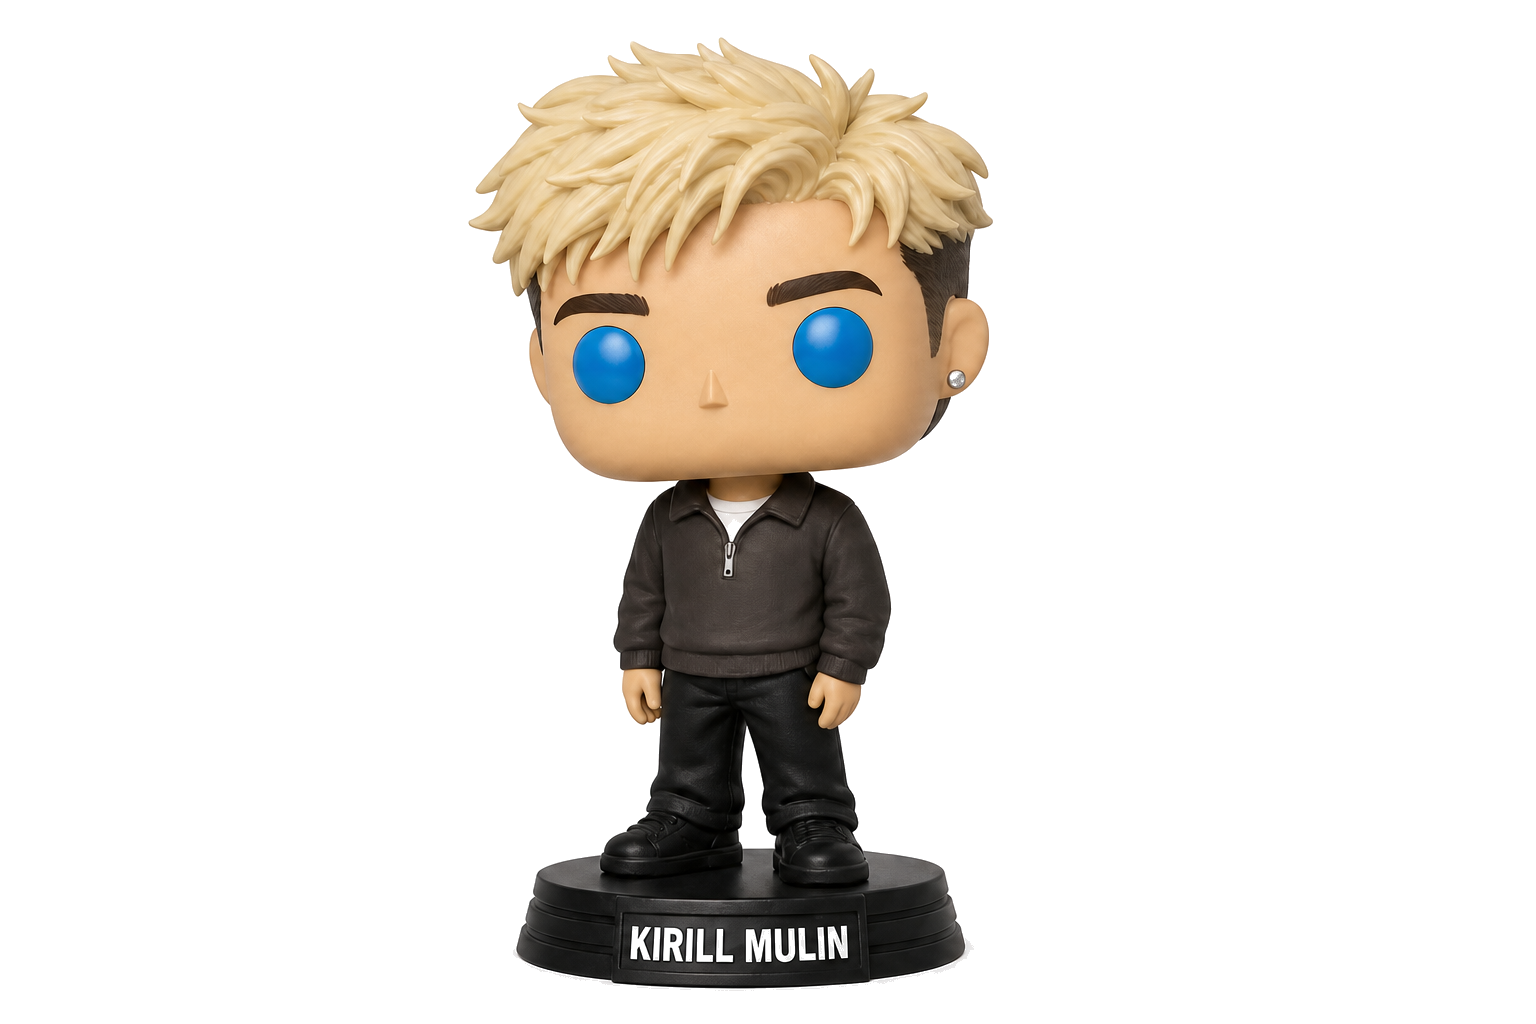
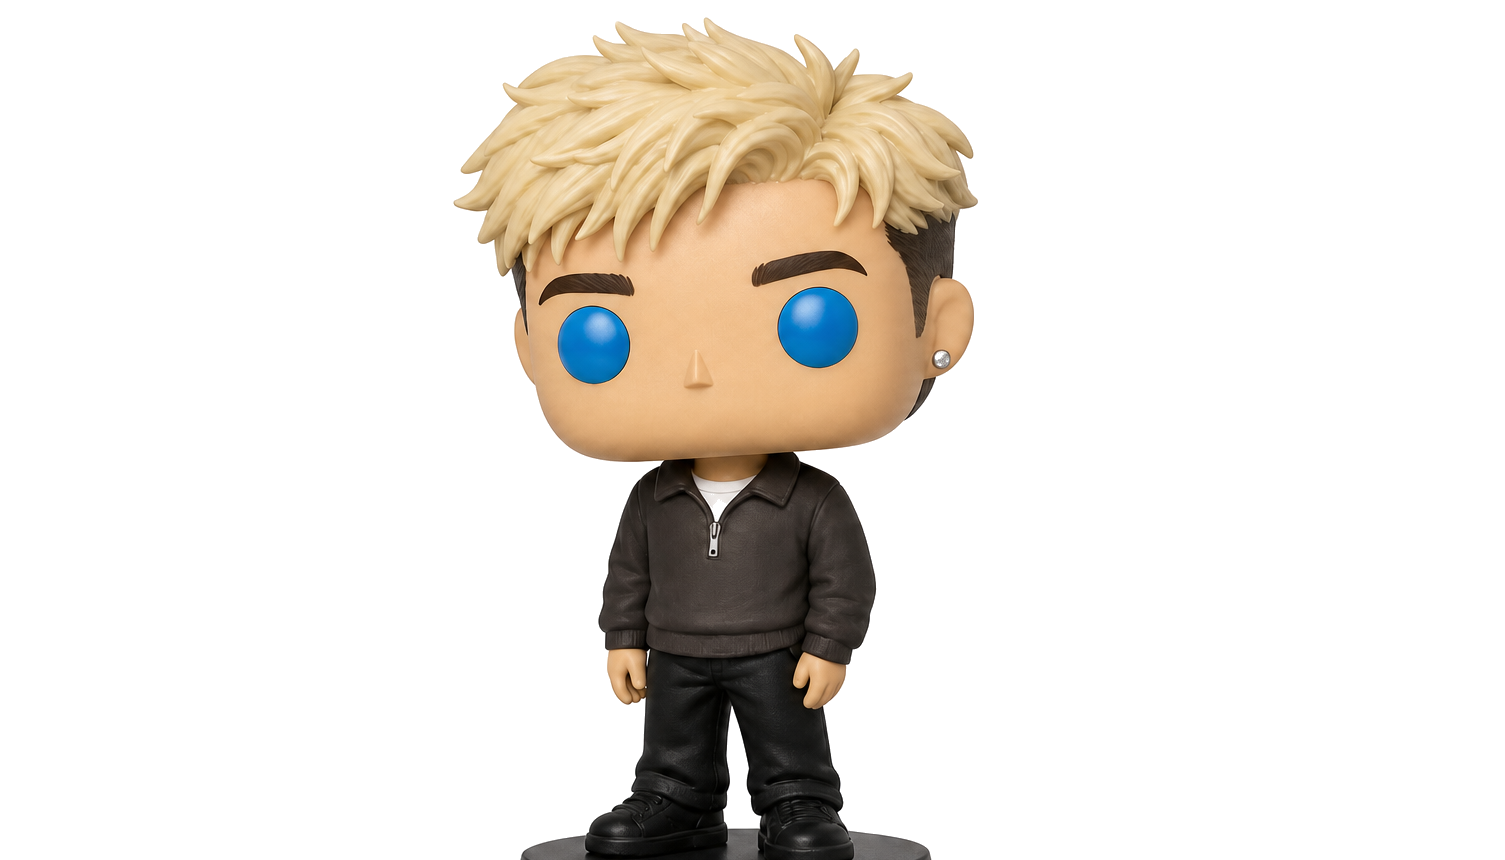
Fix Kirill proportions, cleaner header, scaling protein upgrades

Changed region(s): [[0.2811, 0.0302, 0.6558, 1.0]]

diff --git a/game.js b/game.js
@@ -51,26 +51,34 @@ const PHOTO_LEVELS = [
 let lastPhotoLevel = 0;
 let currentPhotoSrc = '';
 
+function proteinTapBonus(lvl) {
+  return Math.floor((lvl * (lvl + 1)) / 2);
+}
+
+function gymTapBonus(lvl) {
+  return proteinTapBonus(lvl) * 3;
+}
+
 const UPGRADES = [
   {
     id: 'protein',
     name: 'Протеин',
     icon: '🥤',
-    desc: '+1 зинкоин за тап',
+    desc: 'Растёт с уровнем: чем выше ур., тем больше за тап',
     basePrice: 50,
-    priceMult: 1.6,
+    priceMult: 1.68,
     maxLevel: 50,
-    effect: (lvl) => ({ perTap: lvl }),
+    effect: (lvl) => ({ perTap: proteinTapBonus(lvl) }),
   },
   {
     id: 'gym',
     name: 'Абонемент в зал',
     icon: '🏋',
-    desc: '+3 зинкоина за тап',
+    desc: '×3 к бонусу протеина за тап',
     basePrice: 250,
-    priceMult: 1.7,
+    priceMult: 1.72,
     maxLevel: 30,
-    effect: (lvl) => ({ perTap: lvl * 3 }),
+    effect: (lvl) => ({ perTap: gymTapBonus(lvl) }),
   },
   {
     id: 'tshirt',
@@ -665,6 +673,29 @@ function getUpgradePrice(upgrade) {
   return Math.floor(upgrade.basePrice * Math.pow(upgrade.priceMult, lvl));
 }
 
+function getUpgradeTapBonus(upgrade, lvl) {
+  const eff = upgrade.effect(lvl);
+  return eff.perTap || 0;
+}
+
+function getUpgradeNextTapGain(upgrade, lvl) {
+  if (lvl >= upgrade.maxLevel) return 0;
+  return getUpgradeTapBonus(upgrade, lvl + 1) - getUpgradeTapBonus(upgrade, lvl);
+}
+
+function formatUpgradeDesc(upgrade, lvl) {
+  const nextGain = getUpgradeNextTapGain(upgrade, lvl);
+  const total = getUpgradeTapBonus(upgrade, lvl);
+  if (lvl >= upgrade.maxLevel && total > 0) {
+    return `+${formatNum(total)} за тап суммарно`;
+  }
+  if (nextGain > 0) {
+    const totalNext = total + nextGain;
+    return `След. ур.: +${formatNum(nextGain)} за тап · всего +${formatNum(totalNext)}`;
+  }
+  return upgrade.desc;
+}
+
 function getPokemonUpgradePrice(pokemon) {
   const lvl = state.ownedPokemon?.[pokemon.id] || 0;
   if (lvl <= 0 || lvl >= pokemon.maxLevel) return Infinity;
@@ -812,7 +843,6 @@ function render() {
   $('#per-tap').textContent = `+${formatNum(stats.perTap)} за тап`;
   $('#pokemon-hour-total').textContent = `+${formatNum(stats.perHour)}/час`;
   const photoLevel = getPhotoLevelData();
-  $('#level').textContent = photoLevel.level;
   $('#rank').textContent = photoLevel.name;
 
   const vovaImg = $('#vova');
@@ -828,9 +858,9 @@ function render() {
 
   const progressPct = photoLevel.progress * 100;
   $('#level-progress-fill').style.width = progressPct + '%';
-  $('#level-progress-title').textContent = `Уровень ${photoLevel.level} — ${photoLevel.name}`;
+  $('#level-progress-title').textContent = `Уровень ${photoLevel.level}`;
   $('#level-progress-meta').textContent = photoLevel.isMax
-    ? 'Максимум 👑'
+    ? `${photoLevel.name} · макс. 👑`
     : `до ур. ${photoLevel.nextLevel}`;
 
   if (photoLevel.isMax) {
@@ -1109,7 +1139,7 @@ function renderUpgrades() {
       <div class="upgrade-icon">${upgrade.icon}</div>
       <div class="upgrade-info">
         <div class="upgrade-name">${upgrade.name}</div>
-        <div class="upgrade-desc">${upgrade.desc}</div>
+        <div class="upgrade-desc">${formatUpgradeDesc(upgrade, lvl)}</div>
         <div class="upgrade-level">Ур. ${lvl}${maxed ? ' (макс.)' : ''}</div>
       </div>
       <div class="upgrade-price">

diff --git a/styles.css b/styles.css
@@ -54,8 +54,28 @@ body {
   display: flex;
   align-items: center;
   justify-content: space-between;
-  margin-bottom: 6px;
-  gap: 8px;
+  margin-bottom: 4px;
+  gap: 6px;
+}
+
+.header-center {
+  display: flex;
+  flex-direction: column;
+  align-items: center;
+  gap: 3px;
+  flex: 1;
+  min-width: 0;
+}
+
+.header-per-tap {
+  font-size: 0.78rem;
+  font-weight: 900;
+  color: var(--gold);
+  white-space: nowrap;
+  padding: 2px 10px;
+  border-radius: 999px;
+  background: rgba(251, 191, 36, 0.1);
+  border: 1px solid rgba(251, 191, 36, 0.22);
 }
 
 .header-right {
@@ -319,12 +339,12 @@ body {
 
 .pokemon-slot {
   position: relative;
-  aspect-ratio: 3 / 4;
+  aspect-ratio: 2 / 3;
   border-radius: 14px;
   border: 1px dashed var(--border);
   background: linear-gradient(180deg, #1a2030 0%, #0a0e14 55%, #06080c 100%);
   overflow: hidden;
-  min-height: 118px;
+  min-height: 128px;
   box-shadow: inset 0 1px 0 rgba(255, 255, 255, 0.04);
 }
 
@@ -373,10 +393,12 @@ body {
 .pokemon-sprite {
   position: absolute;
   left: 50%;
-  bottom: 0;
+  bottom: 2px;
   transform: translateX(-50%);
-  width: 92%;
-  height: 96%;
+  height: 92%;
+  width: auto;
+  aspect-ratio: 0.56;
+  max-width: 72%;
   background-repeat: no-repeat;
   background-size: 600% 100%;
   background-position: 0% center;
@@ -453,21 +475,6 @@ body {
   100% { opacity: 0; transform: translateX(-50%) translateY(-22px) scale(1.1); }
 }
 
-.tap-income-bar {
-  margin-bottom: 8px;
-  padding: 12px 16px;
-  border-radius: var(--radius);
-  border: 1px solid rgba(251, 191, 36, 0.25);
-  background: linear-gradient(135deg, rgba(251, 191, 36, 0.12), rgba(249, 115, 22, 0.08));
-  text-align: center;
-}
-
-.tap-income-value {
-  font-size: 1.15rem;
-  font-weight: 900;
-  color: var(--gold);
-  letter-spacing: 0.02em;
-}
 
 .pokemon-shop-hint {
   font-size: 0.75rem;
@@ -1259,7 +1266,6 @@ body {
   }
 
   .pokemon-farm-section,
-  .tap-income-bar,
   .level-progress-section,
   .energy-section {
     flex-shrink: 0;

diff --git a/index.html b/index.html
@@ -8,7 +8,7 @@
   <link rel="preconnect" href="https://fonts.googleapis.com">
   <link rel="preconnect" href="https://fonts.gstatic.com" crossorigin>
   <link href="https://fonts.googleapis.com/css2?family=Nunito:wght@600;700;800;900&display=swap" rel="stylesheet">
-  <link rel="stylesheet" href="styles.css?v=18">
+  <link rel="stylesheet" href="styles.css?v=19">
   <style>
     :root {
       --tap-img-size: min(260px, calc(72vw - 28px));
@@ -27,14 +27,13 @@
 <body>
   <div id="app">
     <header class="header">
-      <div class="level-badge">
-        <span class="level-label">Уровень</span>
-        <span id="level" class="level-value">1</span>
-      </div>
       <h1 class="title">Fauck Zini</h1>
-      <div class="header-balance">
-        <span class="coin-icon-sm">💪</span>
-        <span id="balance" class="balance-value-header">0</span>
+      <div class="header-center">
+        <span id="per-tap" class="header-per-tap">+1 за тап</span>
+        <div class="header-balance">
+          <span class="coin-icon-sm">💪</span>
+          <span id="balance" class="balance-value-header">0</span>
+        </div>
       </div>
       <div class="header-right">
         <div class="rank-badge" id="rank">Новичок</div>
@@ -93,10 +92,6 @@
           <span id="pokemon-hour-total" class="pokemon-hour-total">+0/час</span>
         </div>
         <div id="pokemon-farm" class="pokemon-farm"></div>
-      </section>
-
-      <section class="tap-income-bar">
-        <span id="per-tap" class="tap-income-value">+1 за тап</span>
       </section>
 
       <nav class="tabs">
@@ -188,6 +183,6 @@
     </div>
   </div>
 
-  <script src="game.js?v=18"></script>
+  <script src="game.js?v=19"></script>
 </body>
 </html>

diff --git a/game-logic.js b/game-logic.js
@@ -1,6 +1,26 @@
+function proteinTapBonus(lvl) {
+  return Math.floor((lvl * (lvl + 1)) / 2);
+}
+
+function gymTapBonus(lvl) {
+  return proteinTapBonus(lvl) * 3;
+}
+
 const UPGRADES = [
-  { id: 'protein', basePrice: 50, priceMult: 1.6, maxLevel: 50, effect: (lvl) => ({ perTap: lvl }) },
-  { id: 'gym', basePrice: 250, priceMult: 1.7, maxLevel: 30, effect: (lvl) => ({ perTap: lvl * 3 }) },
+  {
+    id: 'protein',
+    basePrice: 50,
+    priceMult: 1.68,
+    maxLevel: 50,
+    effect: (lvl) => ({ perTap: proteinTapBonus(lvl) }),
+  },
+  {
+    id: 'gym',
+    basePrice: 250,
+    priceMult: 1.72,
+    maxLevel: 30,
+    effect: (lvl) => ({ perTap: gymTapBonus(lvl) }),
+  },
   { id: 'tshirt', basePrice: 1000, priceMult: 2, maxLevel: 10, effect: (lvl) => ({ tapMult: 1 + lvl * 0.5 }) },
   { id: 'earbuds', basePrice: 800, priceMult: 1.8, maxLevel: 20, effect: (lvl) => ({ maxEnergy: lvl * 12 }) },
   { id: 'jacket', basePrice: 1500, priceMult: 2, maxLevel: 15, effect: (lvl) => ({ energyRegen: lvl * 0.1 }) },

diff --git a/scripts/strip-white-bg.py b/scripts/strip-white-bg.py
@@ -19,6 +19,20 @@ def strip_white(src: Path, dest: Path, threshold: int = 235) -> None:
     img.save(dest, "PNG")
 
 
+def crop_funko_base(src: Path, dest: Path | None = None, bottom_ratio: float = 0.14) -> None:
+    """Trim black Funko stand / nameplate from the bottom."""
+    out = dest or src
+    img = Image.open(src).convert("RGBA")
+    w, h = img.size
+    top = int(h * 0.02)
+    bottom = int(h * (1 - bottom_ratio))
+    left = int(w * 0.01)
+    right = int(w * 0.99)
+    cropped = img.crop((left, top, right, bottom))
+    out.parent.mkdir(parents=True, exist_ok=True)
+    cropped.save(out, "PNG")
+
+
 if __name__ == "__main__":
     if len(sys.argv) < 3:
         raise SystemExit("usage: strip-white-bg.py <src> <dest>")
